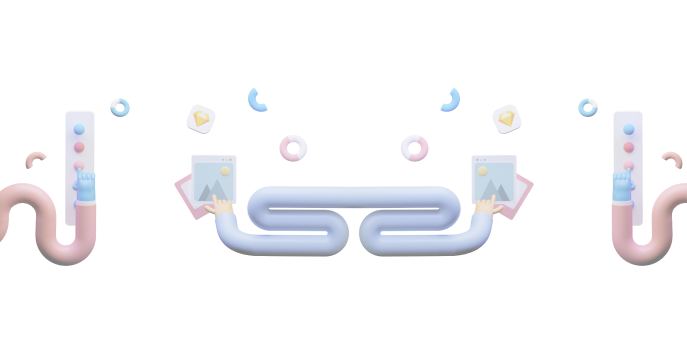
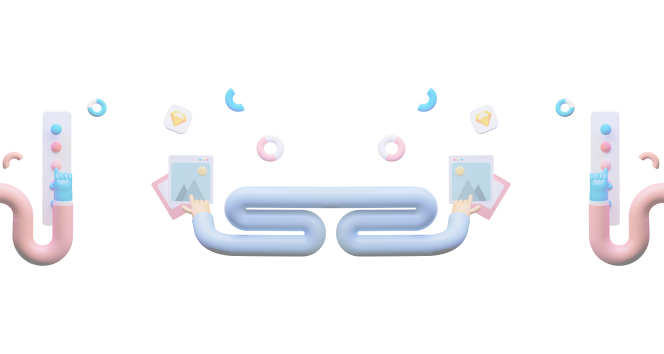
fix(Login): Corrige imagem no background para repetir independete do tamanho da tela

diff --git a/src/pages/Login/index.js b/src/pages/Login/index.js
@@ -3,7 +3,6 @@ import "./styles.scss";
 
 import { Link } from "wouter";
 import { BaseButton } from "../../components";
-import asideImgCard from "../../assets/images/card-bg.png";
 import dividerCard from "../../assets/images/card-divider.png";
 import footerImgLogin from "../../assets/images/login-footer-img.png";
 
@@ -68,18 +67,8 @@ const Login = () => {
           </span>
         </div>
 
-        <img
-          draggable="false"
-          className="aside-img right"
-          src={asideImgCard}
-          alt="background draw"
-        />
-        <img
-          draggable="false"
-          className="aside-img left"
-          src={asideImgCard}
-          alt="background draw"
-        />
+        <div draggable="false" className="aside-bg-img right" />
+        <div draggable="false" className="aside-bg-img left" />
       </div>
 
       <img

diff --git a/src/pages/Login/styles.scss b/src/pages/Login/styles.scss
@@ -58,10 +58,14 @@
       }
     }
 
-    > img.aside-img {
+    > div.aside-bg-img {
       object-fit: contain;
       position: absolute;
       top: 50%;
+      width: 50vw;
+      height: 355px;
+      background-image: url("../../assets/images/card-bg.png");
+      background-repeat: repeat-x;
       &.right {
         transform: translateY(-50%);
         left: 100%;
